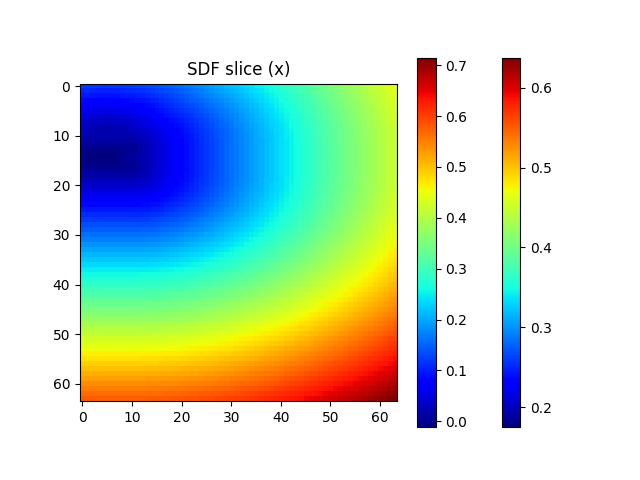
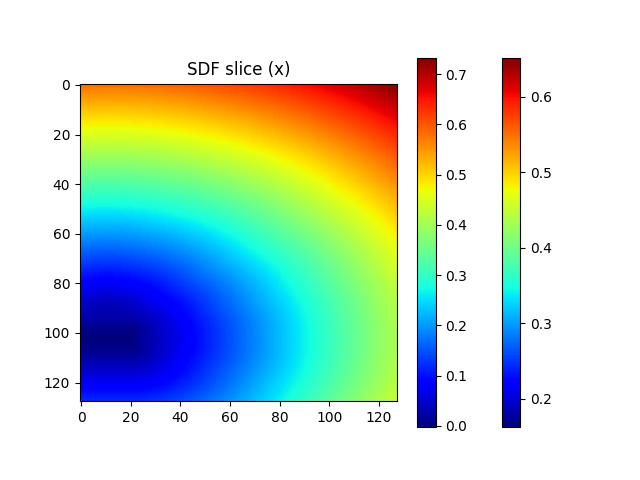
messing with visualization

diff --git a/sdf_visualization.py b/sdf_visualization.py
@@ -110,9 +110,9 @@ Parameters:
 Returns:
     (none)
 """
-def visualize_workspace(mug_transform, workspace_bound=None, workspace_resolution=64, display_2d_slices=True, select_specific_dist=False, d_star=0.01, eps=0.002, trajectory=None, obstacle=False):
+def visualize_workspace(mug_transform, workspace_bound=None, workspace_resolution=64, display_2d_slices=True, select_specific_dist=False, d_star=0.01, eps=0.002, trajectory=None, obstacle=False, obst_transform=None):
     rotation_matrix = mug_transform[:3, :3]
-    # rot_90 = Rotation.from_euler('XYZ',[0,0,-90], degrees=True).as_matrix()
+    rot_90 = Rotation.from_euler('XYZ',[0,0,-90], degrees=True).as_matrix()
     # rotation_matrix = rotation_matrix@rot_90
     rotation_xyz = Rotation.from_matrix(rotation_matrix).as_euler('XYZ', degrees=True)
     translation_vector = mug_transform[:3, 3]
@@ -135,6 +135,30 @@ def visualize_workspace(mug_transform, workspace_bound=None, workspace_resolutio
 
     points = compute_3d_points(workspace_bound, workspace_resolution)
     
+    geom_list = []
+    # add the obstacle if there is one
+    if obstacle==True:
+        print("Adding obstacle to visual)")
+        obst_transform[:3,3] = obst_transform[:3,3]/1000
+        obst_transform = numpy.linalg.inv(mug_transform)@obst_transform
+        obst_t = obst_transform[:3,3]
+        obst_rot = obst_transform[:3,:3]
+        obst_rot = obst_rot@rot_90
+        # if obst_t[0] > 0.5:q
+        #     # change into meters
+        #     for i in range(3):
+        #         obst_t[i] = obst_t[i] / 1000
+        obst_xyz = Rotation.from_matrix(obst_rot).as_euler('XYZ', degrees=True)
+
+        obstacle_mesh = o3d.io.read_triangle_mesh("Obstacle.stl")
+        obstacle_legacy = o3d.t.geometry.TriangleMesh.from_legacy(obstacle_mesh)
+        obstacle_mesh.compute_vertex_normals()
+        # obstacle_legacy.scale(100.0, [0,0,0])
+        # obstacle_mesh.rotate(obst_rot)
+
+        obstacle_mesh.translate(obst_t)
+        _ = scene.add_triangles(obstacle_legacy)
+        geom_list.append(obstacle_mesh)
 
     sdf = query_sdf(scene, points)  ### SDF/sDF
     sdf = sdf.reshape(workspace_resolution, workspace_resolution, workspace_resolution)
@@ -150,7 +174,7 @@ def visualize_workspace(mug_transform, workspace_bound=None, workspace_resolutio
 
     mesh_frame = o3d.geometry.TriangleMesh.create_coordinate_frame(size=0.04, origin=(0,0.4,0))
 
-    geom_list = []
+
     if trajectory is not None:
         geom_list = add_trajectory(mug_transform.copy(), trajectory)
     geom_list.append(mesh_frame)
@@ -179,11 +203,24 @@ def visualize_workspace(mug_transform, workspace_bound=None, workspace_resolutio
     geom_list.append(mesh_legacy)
 
     # add the obstacle if there is one
-    if obstacle is True:
+    if obstacle==True:
+        print("Adding obstacle to visual)")
+        obst_t = obst_transform[:3,3]
+        obst_rot = obst_transform[:3,:3]
+        if obst_t[0] > 0.5:
+            # change into meters
+            for i in range(3):
+                obst_t[i] = obst_t[i] / 1000
+        obst_xyz = Rotation.from_matrix(obst_rot).as_euler('XYZ', degrees=True)
+
         obstacle_mesh = o3d.io.read_triangle_mesh("Obstacle.stl")
         obstacle_legacy = o3d.t.geometry.TriangleMesh.from_legacy(obstacle_mesh)
-        obstacle_legacy.compute_vertex_normals()
-        geom_list.append(obstacle_legacy)
+        obstacle_mesh.compute_vertex_normals()
+        # obstacle_legacy.scale(1000.0, [0,0,0])
+        obstacle_mesh.rotate(obst_rot)
+        obstacle_mesh.translate(obst_t)
+        _ = scene.add_triangles(obstacle_legacy)
+        geom_list.append(obstacle_mesh)
 
     o3d.visualization.draw_geometries(geom_list)
 

diff --git a/mug_grap_test.py b/mug_grap_test.py
@@ -109,7 +109,7 @@ def main():
         worspace_boundary = [[0, 0.380], [-0.400, 0.400], [0, 0.500]]
         visualize_workspace(np.copy(t_robot_mug), workspace_bound=worspace_boundary, 
                             workspace_resolution=64, display_2d_slices=False, 
-                            select_specific_dist=False, d_star=10, eps=0.2)
+                            select_specific_dist=False, d_star=10, eps=0.2, obstacle=True, obst_transform=np.copy(t_robot_tower))
 
         #print("t_robot_mug")
         #print(t_robot_mug)
@@ -158,7 +158,7 @@ def main():
         worspace_boundary = [[0, 0.380], [-0.400, 0.400], [0, 0.500]]
         visualize_workspace(np.copy(t_robot_mug), workspace_bound=worspace_boundary, 
                             workspace_resolution=32, display_2d_slices=False, 
-                            select_specific_dist=False, d_star=10, eps=0.2, trajectory=obj_opt.trajectory.copy())
+                            select_specific_dist=False, d_star=10, eps=0.2, trajectory=obj_opt.trajectory.copy(), obstacle=True)
         
         time.sleep(0.5)
         grasp_grip_length = 0.069 * 1000